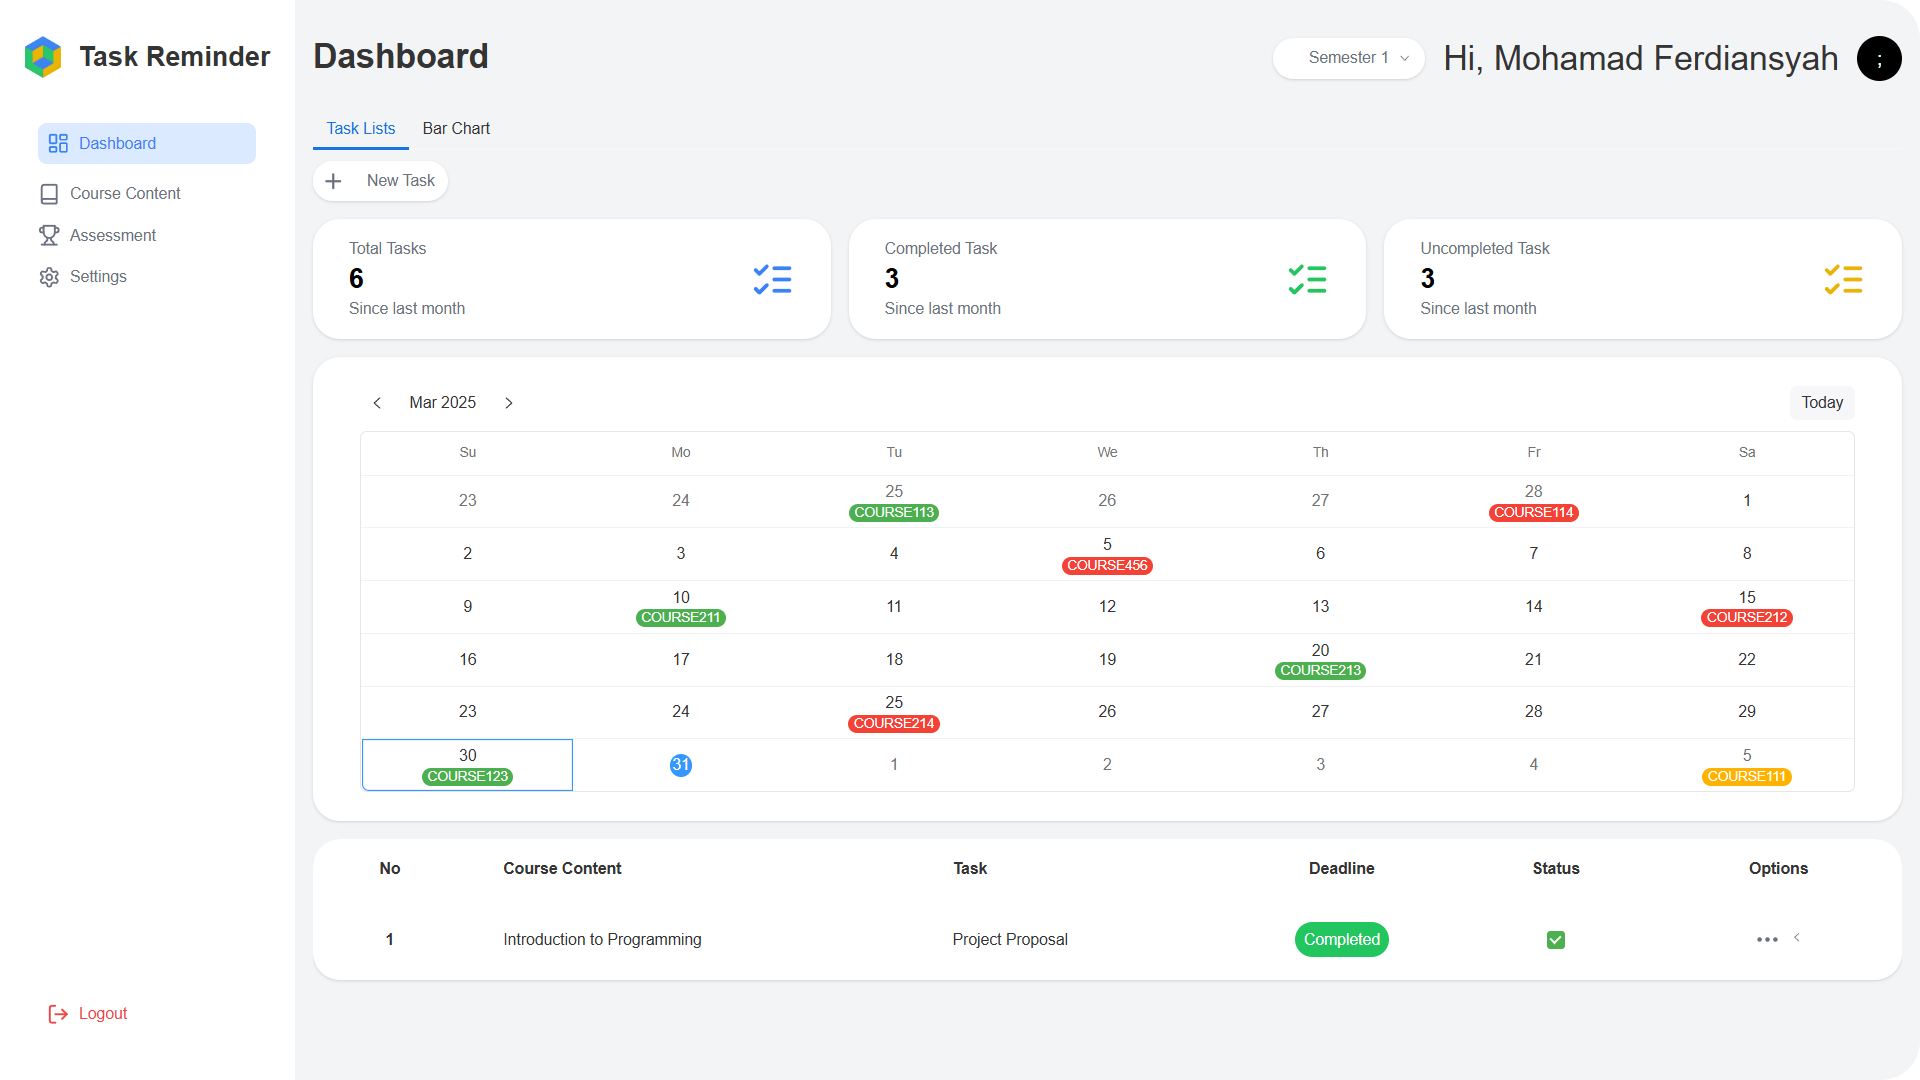
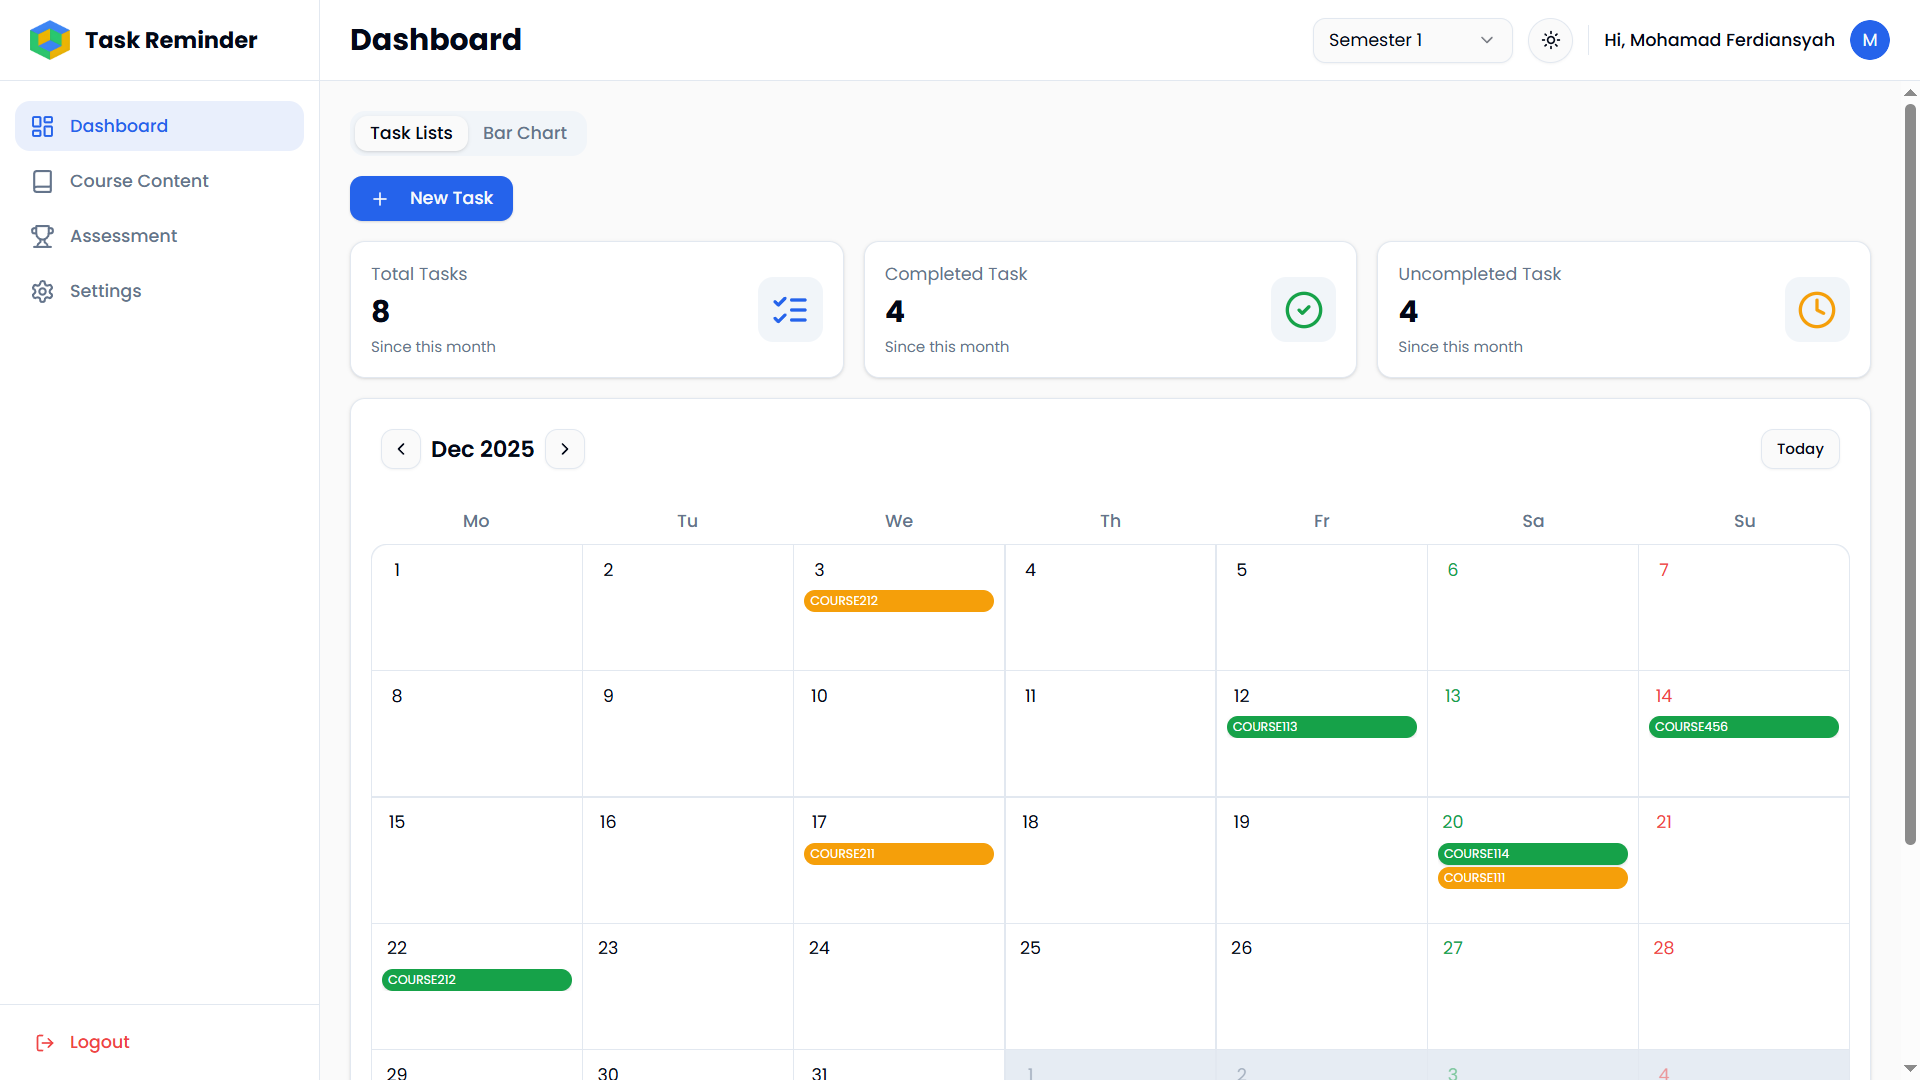
Adds login screenshot and updates all UI screenshots
Adds a new login interface screenshot to the README documentation to provide complete coverage of the application's user interface.

Updates all existing screenshots (dashboard, assessments, bar chart, course contents, grades, and settings) to reflect the current state of the UI, ensuring documentation accurately represents the application's appearance.

diff --git a/README.md b/README.md
@@ -19,6 +19,9 @@ Task Reminder is a college assignment reminder application designed to help stud
 
 Here are the interface screenshots of Task Reminder:
 
+### Login
+![Task Reminder Login Screenshot](./screen/login.png)
+
 ### Dashboard
 ![Task Reminder Dashboard Screenshot](./screen/dashboard.png)
 
